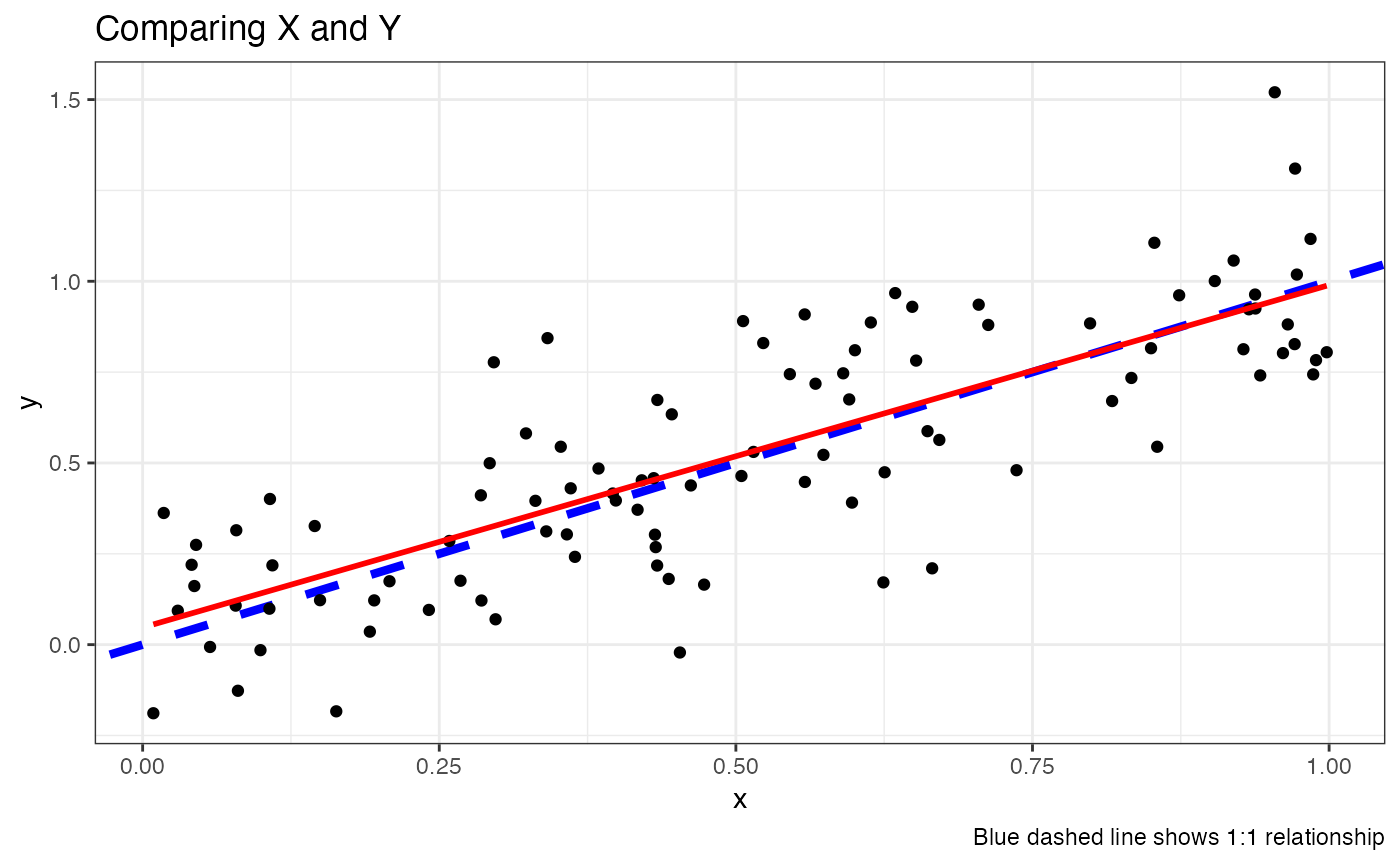
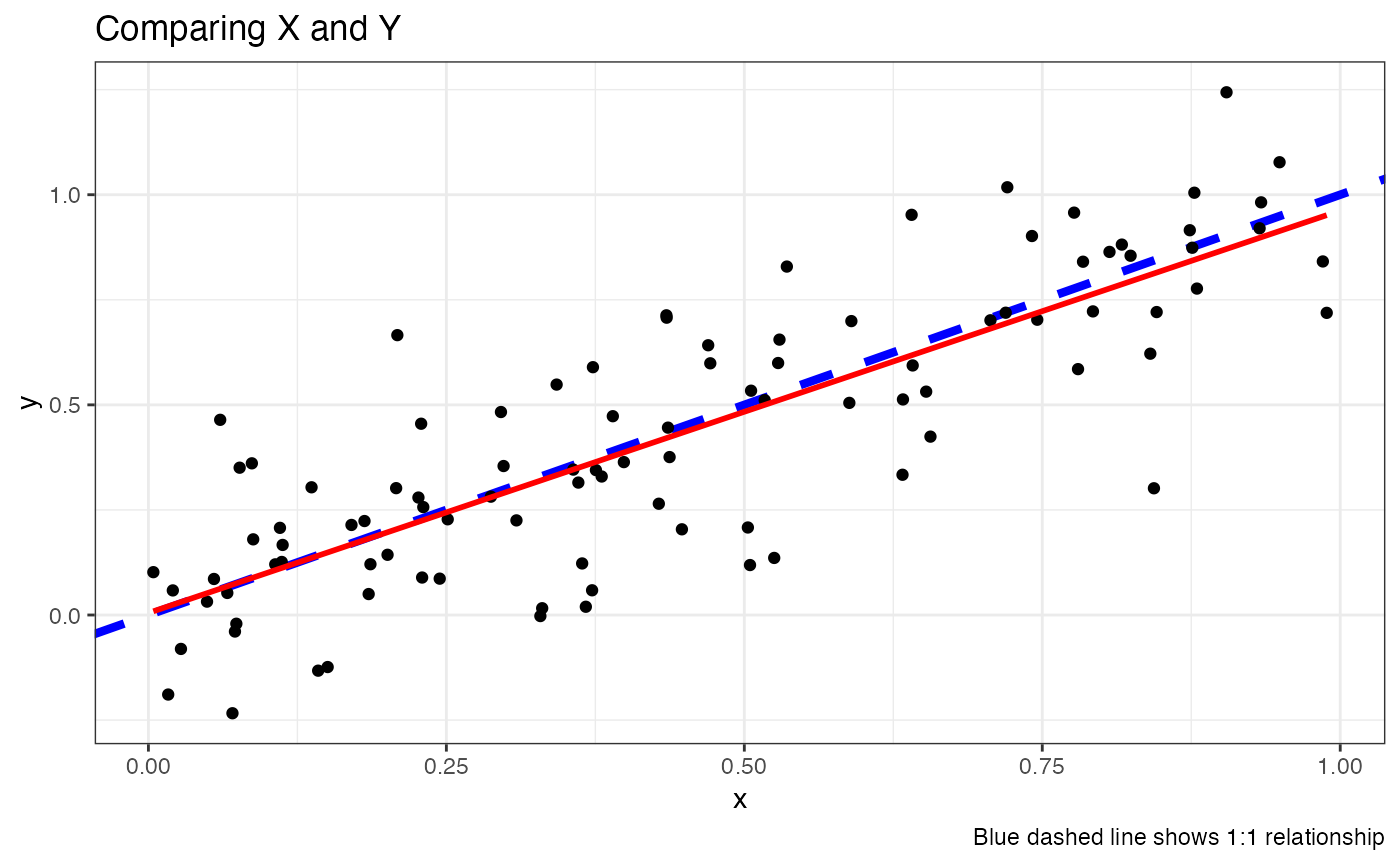
Updating colour blind article

diff --git a/docs/articles/HGUTheme.html b/docs/articles/HGUTheme.html
@@ -183,16 +183,16 @@ regression line on top. First we can make some fake data</p>
 <span><span class="co">#&gt; <span style="color: #949494;"># A tibble: 100 × 2</span></span></span>
 <span><span class="co">#&gt;        x      y</span></span>
 <span><span class="co">#&gt;    <span style="color: #949494; font-style: italic;">&lt;dbl&gt;</span>  <span style="color: #949494; font-style: italic;">&lt;dbl&gt;</span></span></span>
-<span><span class="co">#&gt; <span style="color: #BCBCBC;"> 1</span> 0.432 0.268 </span></span>
-<span><span class="co">#&gt; <span style="color: #BCBCBC;"> 2</span> 0.145 0.326 </span></span>
-<span><span class="co">#&gt; <span style="color: #BCBCBC;"> 3</span> 0.192 0.035<span style="text-decoration: underline;">7</span></span></span>
-<span><span class="co">#&gt; <span style="color: #BCBCBC;"> 4</span> 0.874 0.961 </span></span>
-<span><span class="co">#&gt; <span style="color: #BCBCBC;"> 5</span> 0.268 0.176 </span></span>
-<span><span class="co">#&gt; <span style="color: #BCBCBC;"> 6</span> 0.352 0.545 </span></span>
-<span><span class="co">#&gt; <span style="color: #BCBCBC;"> 7</span> 0.241 0.095<span style="text-decoration: underline;">5</span></span></span>
-<span><span class="co">#&gt; <span style="color: #BCBCBC;"> 8</span> 0.523 0.830 </span></span>
-<span><span class="co">#&gt; <span style="color: #BCBCBC;"> 9</span> 0.938 0.925 </span></span>
-<span><span class="co">#&gt; <span style="color: #BCBCBC;">10</span> 0.961 0.802 </span></span>
+<span><span class="co">#&gt; <span style="color: #BCBCBC;"> 1</span> 0.437 0.376 </span></span>
+<span><span class="co">#&gt; <span style="color: #BCBCBC;"> 2</span> 0.780 0.585 </span></span>
+<span><span class="co">#&gt; <span style="color: #BCBCBC;"> 3</span> 0.367 0.019<span style="text-decoration: underline;">6</span></span></span>
+<span><span class="co">#&gt; <span style="color: #BCBCBC;"> 4</span> 0.230 0.089<span style="text-decoration: underline;">2</span></span></span>
+<span><span class="co">#&gt; <span style="color: #BCBCBC;"> 5</span> 0.640 0.952 </span></span>
+<span><span class="co">#&gt; <span style="color: #BCBCBC;"> 6</span> 0.528 0.600 </span></span>
+<span><span class="co">#&gt; <span style="color: #BCBCBC;"> 7</span> 0.741 0.902 </span></span>
+<span><span class="co">#&gt; <span style="color: #BCBCBC;"> 8</span> 0.436 0.446 </span></span>
+<span><span class="co">#&gt; <span style="color: #BCBCBC;"> 9</span> 0.529 0.655 </span></span>
+<span><span class="co">#&gt; <span style="color: #BCBCBC;">10</span> 0.777 0.957 </span></span>
 <span><span class="co">#&gt; <span style="color: #949494;"># … with 90 more rows</span></span></span></code></pre></div>
 <p>Then we can make a simple plot that you might make for a
 presentation:</p>

diff --git a/docs/articles/ColourBlind.html b/docs/articles/ColourBlind.html
@@ -91,9 +91,13 @@
 
     
     
-<p><strong>This is not a definitive guide to colour blind friendly
-plotting, just a link to some resources that we have found
-useful.</strong></p>
+<p>There are many different forms of colour blindness and in many
+situations it is impossible to make your plots completely suitable for
+everyone. However, there are many simple things that can be done to
+drastically increase the accessibility of your plots for people who
+suffer from colour blindness. Increasing the accessibility of your work
+makes life easier for everyone, making your plots more readable even to
+people who do not suffer from colour blindness.</p>
   </main>
 </div>
 

diff --git a/docs/reference/hgu_palette.html b/docs/reference/hgu_palette.html
@@ -79,7 +79,7 @@
 <span class="r-out co"><span class="r-pr">#&gt;</span> {</span>
 <span class="r-out co"><span class="r-pr">#&gt;</span>     c(hgu_dark(), hgu_mid(), hgu_light())</span>
 <span class="r-out co"><span class="r-pr">#&gt;</span> }</span>
-<span class="r-out co"><span class="r-pr">#&gt;</span> &lt;bytecode: 0x7fd53e74f6a0&gt;</span>
+<span class="r-out co"><span class="r-pr">#&gt;</span> &lt;bytecode: 0x7fbe08450040&gt;</span>
 <span class="r-out co"><span class="r-pr">#&gt;</span> &lt;environment: namespace:HGUTheme&gt;</span>
 </code></pre></div>
     </div>
